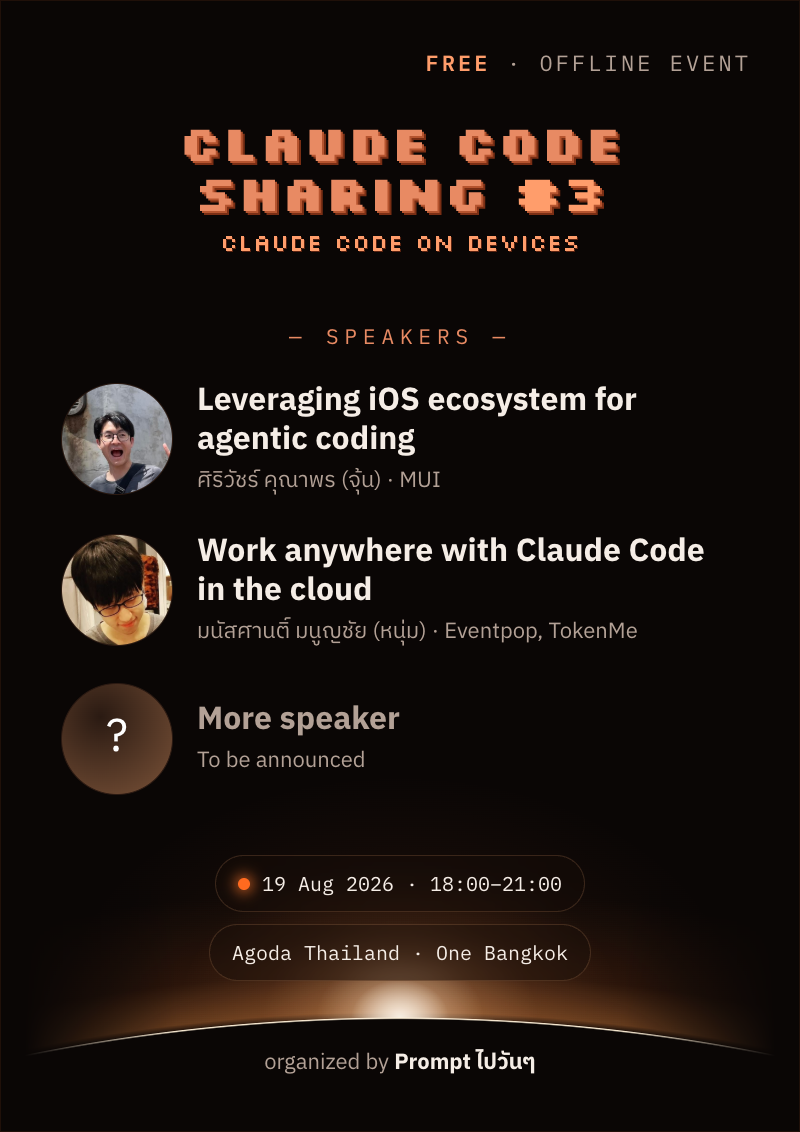
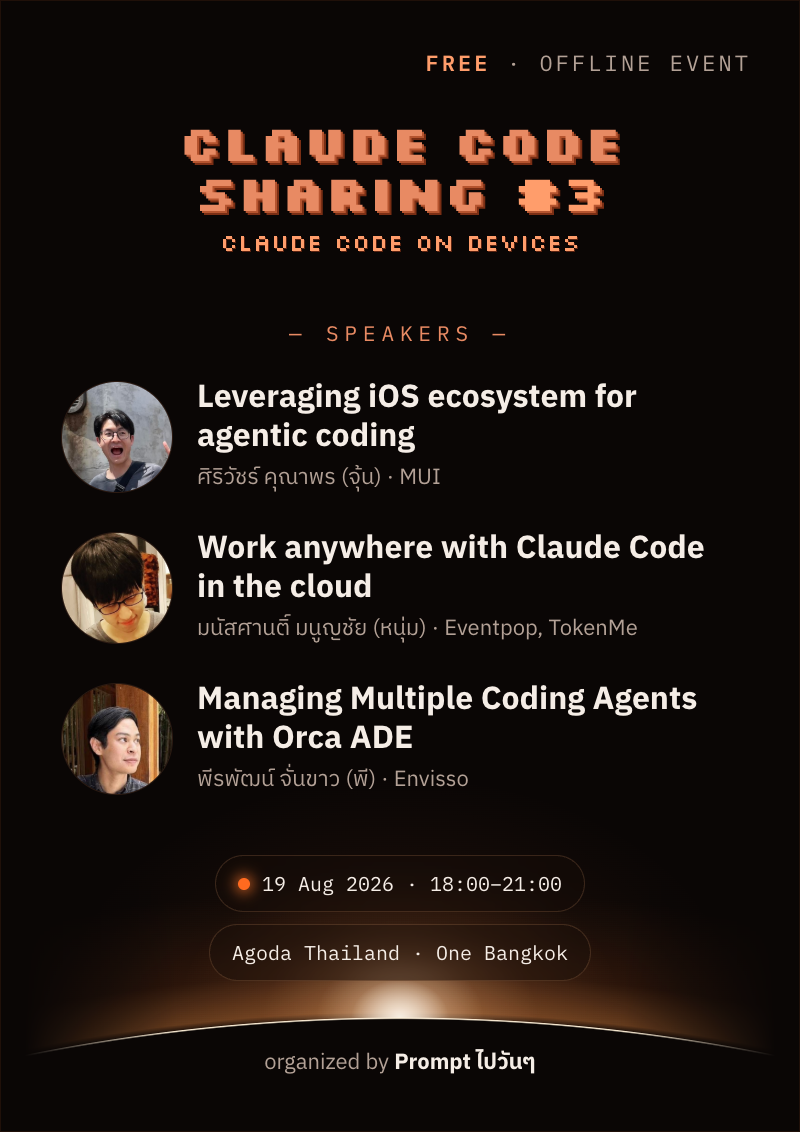
Add 3rd speaker พีรพัฒน์ จั่นขาว (พี) — Managing Multiple Coding Agents with Orca ADE (Envisso); fill card/schedule/poster, drop TBA

diff --git a/meetups/claude-code-3/index.html b/meetups/claude-code-3/index.html
@@ -70,7 +70,7 @@
   <section class="section"><div class="wrap">
     <p class="eyebrow">SPEAKERS & SESSIONS</p>
     <h2>Who's sharing</h2>
-    <p class="intro">Two confirmed, one more on the way.</p>
+    <p class="intro">Three speakers, one night.</p>
     <div class="spk-grid">
       <div class="spk">
         <img src="assets/speakers/siriwat.png" alt=""/>
@@ -80,9 +80,9 @@
         <img src="assets/speakers/manassarn.png" alt=""/>
         <div><p class="s-talk">Work anywhere with Claude Code in the cloud</p><p class="s-who">มนัสศานติ์ มนูญชัย (หนุ่ม) · @ Eventpop, TokenMe</p></div>
       </div>
-      <div class="spk tba">
-        <img src="assets/speakers/tba.svg" alt=""/>
-        <div><p class="s-talk">Speaker to be announced</p><p class="s-who">TBA</p></div>
+      <div class="spk">
+        <img src="assets/speakers/peerapat.png" alt=""/>
+        <div><p class="s-talk">Managing Multiple Coding Agents with Orca ADE</p><p class="s-who">พีรพัฒน์ จั่นขาว (พี) · Lead Product Engineer at Envisso</p></div>
       </div>
     </div>
   </div></section>
@@ -97,7 +97,7 @@
       <div class="sched-row talk"><span class="sched-time">18:35–19:05</span><span class="sched-label">Leveraging iOS ecosystem for agentic coding<br><span class="sched-sub">ศิริวัชร์ คุณาพร (จุ้น) · MUI</span></span></div>
       <div class="sched-row talk"><span class="sched-time">19:10–19:40</span><span class="sched-label">Work anywhere with Claude Code in the cloud<br><span class="sched-sub">มนัสศานติ์ มนูญชัย (หนุ่ม) · Eventpop, TokenMe</span></span></div>
       <div class="sched-row"><span class="sched-time">19:40–20:00</span><span class="sched-label">Break</span></div>
-      <div class="sched-row talk"><span class="sched-time">20:00–20:30</span><span class="sched-label">Session 3 — TBA<br><span class="sched-sub">Speaker TBA</span></span></div>
+      <div class="sched-row talk"><span class="sched-time">20:00–20:30</span><span class="sched-label">Managing Multiple Coding Agents with Orca ADE<br><span class="sched-sub">พีรพัฒน์ จั่นขาว (พี) · Envisso</span></span></div>
       <div class="sched-row"><span class="sched-time">20:30–21:00</span><span class="sched-label">Networking</span></div>
     </div>
   </div></section>
@@ -198,7 +198,7 @@
       +'<div class="spp-list">'
         +row('siriwat.png','Leveraging iOS ecosystem for agentic coding','ศิริวัชร์ คุณาพร (จุ้น) · MUI',false)
         +row('manassarn.png','Work anywhere with Claude Code in the cloud','มนัสศานติ์ มนูญชัย (หนุ่ม) · Eventpop, TokenMe',false)
-        +row('','More speaker','To be announced',true)
+        +row('peerapat.png','Managing Multiple Coding Agents with Orca ADE','พีรพัฒน์ จั่นขาว (พี) · Envisso',false)
       +'</div>'
     +'</div>'
     +'<div class="spp-org">organized by <b>Prompt ไปวันๆ</b></div>';};
